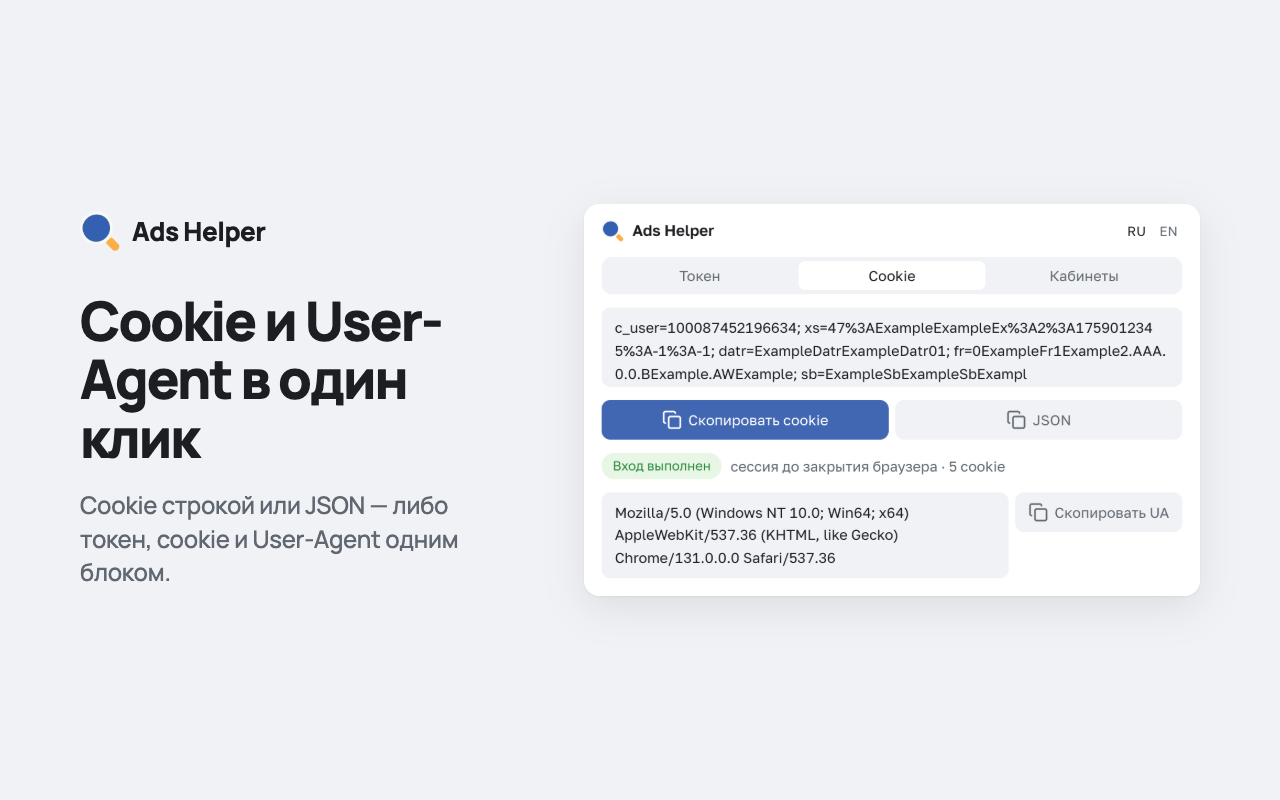
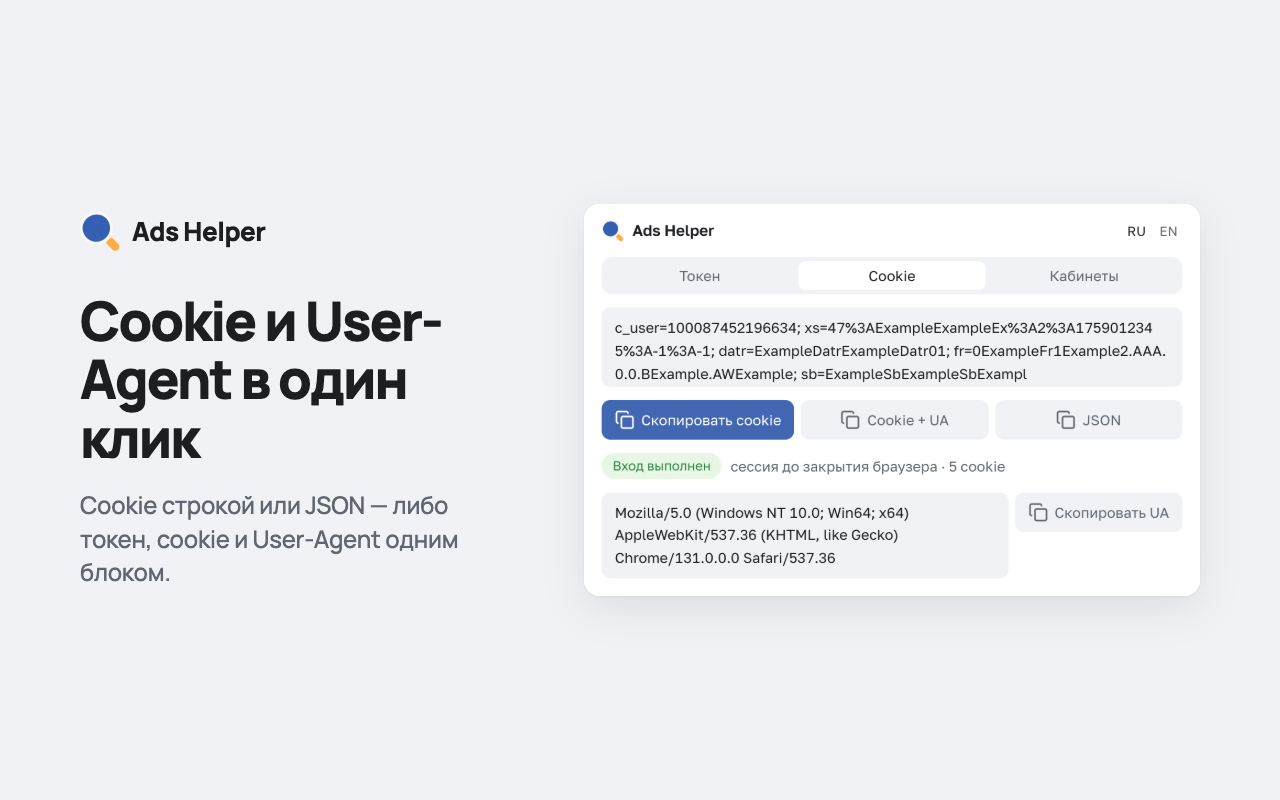
2.4.0: profile + BMs in "Token + cookies + UA", "Cookies + UA" button
- "Token + cookies + UA" ends with "Profile: <name> (<id>)" and "BM: <name> (<id>), …" in English, from the same /me read as the owner check (businesses edge; without business_management: once more with id,name, "BM: not available")
- Cookies tab: "Cookies + UA" copies the cookie string, blank line, User-Agent (no Graph request)
- Docs: README, store listing, privacy policy, token type order

Changed region(s): [[0.4688, 0.5, 0.75, 0.5625], [0.7812, 0.5, 0.875, 0.5312]]

diff --git a/fb-helper/js/popup.js b/fb-helper/js/popup.js
@@ -9,7 +9,7 @@
 // localStorage holds the last tab and the spend period. Cookies and the User-Agent are read live, never stored.
 
 import { t, tn, has, locale, getLang, setLang, loadLang, applyStatic } from "./i18n.js";
-import { isSessionError, sessionLabel, verNum, latestVersion, AD_PROBLEMS, adRank, reviewLines, ownerVerdict, isUserAgent, lifetimeSpend, spendFloor, insightRow } from "./pure.js";
+import { isSessionError, sessionLabel, verNum, latestVersion, AD_PROBLEMS, adRank, reviewLines, ownerVerdict, profileBlock, isUserAgent, lifetimeSpend, spendFloor, insightRow } from "./pure.js";
 
 const $ = (sel) => document.querySelector(sel);
 const $$ = (sel) => [...document.querySelectorAll(sel)];
@@ -595,7 +595,7 @@ const cookieMap = () => Object.fromEntries(state.cookies.map((c) => [c.name, c])
 const hasSession = () => { const m = cookieMap(); return !!(m.c_user && m.xs); };
 function renderCookies() {
   const byName = cookieMap();
-  for (const id of ["#copyCookies", "#copyCookieJson"]) $(id).disabled = !state.cookies.length;
+  for (const id of ["#copyCookies", "#copyCookiesUa", "#copyCookieJson"]) if (!$(id).hasAttribute("aria-busy")) $(id).disabled = !state.cookies.length;
   // The whole cookie string, one colour like the token, in a short scrollable box;
   // the status line under it says whether the profile is logged in and how many cookies go out.
   const n = state.cookies.length;
@@ -653,22 +653,46 @@ async function copyUa() {
   if (!ua) return toast(state.uaHint || t("grab.noAccess"), true);
   copy(ua, t("ua.copied"));
 }
+// Cookie string, blank line, User-Agent: both read live (the UA from the FB tab, alongside the cookies). No Graph request.
+async function copyCookiesUa() {
+  const btn = $("#copyCookiesUa");
+  if (btn.disabled) return;
+  btn.disabled = true; btn.setAttribute("aria-busy", "true");
+  try {
+    const [ua] = await Promise.all([readUa().catch(() => null), readCookies()]);
+    if (!hasSession()) return toast(t("ck.noSession"), true);
+    if (!ua) return toast(state.uaHint || t("grab.noAccess"), true);
+    copy(`${cookieHeader()}\n\n${ua}`, t("ckUa.copied"));
+  } finally { btn.disabled = !state.cookies.length; btn.removeAttribute("aria-busy"); }
+}
 // ---------- token + cookies + UA block ----------
 // Whose token is it — the logged-in user's (c_user)? One /me read, remembered per token + login.
 // An open FB tab can keep a token from before the profile switched accounts; exporting it next to the new
 // cookies would hand out a pair that never worked. Throws Stale / a dead-session error; any other failure
 // (network, API pause) is "unknown" and does not block the export.
+// The same read brings the profile name and its BMs for the block's last paragraph. A token without
+// business_management (Events / Commerce Manager) is refused the BMs: then once more with id,name only.
+const PERMISSION_CODES = (c) => c === 10 || c === 100 || (c >= 200 && c <= 299);
 async function ownerCheck(token) {
   const user = cookieMap().c_user?.value || null;
   if (state.checked?.token === token && state.checked.user === user) return state.checked;
-  let meId = null, verdict = "unknown";
+  let meId = null, name = null, businesses = null, more = false, verdict = "unknown";
   try {
-    meId = (await graph("me", { fields: "id" })).id;
+    let me, withBm = true;
+    try { me = await graph("me", { fields: "id,name,businesses.limit(100){id,name}" }); }
+    catch (e) {
+      if (!PERMISSION_CODES(e.code)) throw e;
+      withBm = false;
+      me = await graph("me", { fields: "id,name" });
+    }
+    meId = me.id; name = me.name || null;
+    // Graph leaves out an empty edge entirely: no "businesses" key on a read that asked for it = no BMs.
+    if (withBm) { businesses = Array.isArray(me.businesses?.data) ? me.businesses.data : []; more = !!me.businesses?.paging?.next; }
     verdict = ownerVerdict(!!TOKEN_KIND[token.slice(0, 4)], meId, user);
   } catch (e) {
     if (e instanceof Stale || e.session) throw e;
   }
-  const res = { token, user, verdict, meId };
+  const res = { token, user, verdict, meId, name, businesses, more };
   // Kept in storage.session, so reopening the popup doesn't cost another /me before the next export.
   if (verdict !== "unknown") { state.checked = res; saveSession({ checked: res }); }
   return res;
@@ -701,8 +725,10 @@ async function copyEnvNow() {
   catch (e) { if (!(e instanceof Stale)) toast(e.message, true); return; }
   if (gen !== state.gen || state.token !== token) return;
   if (own.verdict === "mismatch") return toast(t("env.mismatch", { a: own.meId, b: own.user }), true);
-  // token, blank line, cookie header, blank line, User-Agent — nothing else
-  copy(`${token}\n\n${cookies}\n\n${ua}`, own.verdict === "ok" ? t("env.copied") : t("env.unverified"));
+  // token, blank line, cookie header, blank line, User-Agent, then (when /me answered) profile + BMs in English.
+  // The id is printed only when it is the logged-in user's: a custom app's /me id is app-scoped.
+  const info = own.meId ? `\n\n${profileBlock({ name: own.name, id: own.verdict === "ok" ? own.meId : null, businesses: own.businesses, more: own.more })}` : "";
+  copy(`${token}\n\n${cookies}\n\n${ua}${info}`, own.verdict === "ok" ? t("env.copied") : t("env.unverified"));
 }
 
 // ---------- accounts ----------
@@ -1237,6 +1263,7 @@ document.addEventListener("DOMContentLoaded", async () => {
   $("#copyCookies").addEventListener("click", () => copyCookies(false));
   $("#copyCookieJson").addEventListener("click", () => copyCookies(true));
   $("#copyUa").addEventListener("click", copyUa);
+  $("#copyCookiesUa").addEventListener("click", copyCookiesUa);
   $("#loadAccounts").addEventListener("click", () => fetchAccounts());
   $("#copyLiveIds").addEventListener("click", copyLiveIds);
   $("#accountFilter").addEventListener("input", (e) => { state.filter = e.target.value; renderAccounts(); });

diff --git a/fb-helper/js/i18n.js b/fb-helper/js/i18n.js
@@ -21,6 +21,7 @@ const D = {
     "guide.EAAI": "— настройка автоправил.",
     "copyCookies": "Скопировать cookie", "copyCookies.title": "Строка cookie: c_user=…; xs=…; …",
     "copyJson.title": "Те же cookie с атрибутами (domain, path, срок) — для импорта в антидетект",
+    "ckUa": "Cookie + UA", "ckUa.title": "Строка cookie, пустая строка, User-Agent этого профиля", "ckUa.copied": "Cookie + UA скопированы",
     "ua.copy": "Скопировать UA", "ua.title": "User-Agent этого профиля, как его видит страница Facebook", "ua.copied": "User-Agent скопирован",
     "search": "Поиск", "search.aria": "Поиск кабинетов",
     "liveIds": "ID активных", "liveIds.title": "ID активных кабинетов списком, по одному в строке",
@@ -116,6 +117,7 @@ const D = {
     "guide.EAAI": "— automated rules.",
     "copyCookies": "Copy cookies", "copyCookies.title": "Cookie string: c_user=…; xs=…; …",
     "copyJson.title": "Same cookies with attributes (domain, path, expiry) — for import into an antidetect browser",
+    "ckUa": "Cookies + UA", "ckUa.title": "Cookie string, blank line, this profile's User-Agent", "ckUa.copied": "Cookies + UA copied",
     "ua.copy": "Copy UA", "ua.title": "This profile's User-Agent, as the Facebook page sees it", "ua.copied": "User-Agent copied",
     "search": "Search", "search.aria": "Search ad accounts",
     "liveIds": "Active IDs", "liveIds.title": "IDs of active ad accounts, one per line",

diff --git a/fb-helper/js/pure.js b/fb-helper/js/pure.js
@@ -86,6 +86,19 @@ export function ownerVerdict(firstParty, meId, cookieUser) {
   return firstParty ? "mismatch" : "unknown";
 }
 
+// The last paragraph of the token + cookies + UA block, always in English: whose profile, which BMs.
+// id: the profile id, only when it is the real one (owner verified); a custom app's /me id is app-scoped.
+// businesses: [{ id, name }], or null when the token could not read them; more: Graph has a next page.
+// Names come from Graph and can hold anything: control characters (a newline would forge a paragraph) become spaces.
+export function profileBlock({ name, id, businesses, more = false }) {
+  const clean = (s) => String(s ?? "").replace(/[\x00-\x1f\x7f]+/g, " ").trim();
+  const who = clean(name);
+  const profile = who && id ? `${who} (${id})` : who || clean(id) || "unknown";
+  const list = Array.isArray(businesses) ? businesses.filter((b) => b?.id).map((b) => `${clean(b.name) || "no name"} (${clean(b.id)})`) : null;
+  const bm = !list ? "not available" : !list.length ? "none" : list.join(", ") + (more ? ", …" : "");
+  return `Profile: ${profile}\nBM: ${bm}`;
+}
+
 // A User-Agent as read from the page. The page's JS can return anything, so only a printable-ASCII string of a sane
 // length passes: no control characters (a newline would forge extra paragraphs in the copied block), no markup-length blobs.
 export const isUserAgent = (s) => typeof s === "string" && /^[\x20-\x7e]{8,512}$/.test(s);

diff --git a/fb-helper/popup.html b/fb-helper/popup.html
@@ -56,8 +56,9 @@
     <section id="tab-cookies" class="panel" role="tabpanel" aria-labelledby="tabbtn-cookies">
       <div class="card">
         <div class="field data" id="cookieBox">—</div>
-        <div class="split">
+        <div class="split three">
           <button id="copyCookies" class="btn primary" title="Cookie string: c_user=…; xs=…; …" data-i18n-title="copyCookies.title"><i class="i i-copy"></i><span data-i18n="copyCookies">Copy cookies</span></button>
+          <button id="copyCookiesUa" class="btn" title="Cookie string, blank line, this profile's User-Agent" data-i18n-title="ckUa.title"><i class="i i-copy"></i><span data-i18n="ckUa">Cookies + UA</span></button>
           <button id="copyCookieJson" class="btn" title="Same cookies with attributes (domain, path, expiry) — for import into an antidetect browser" data-i18n-title="copyJson.title"><i class="i i-copy"></i>JSON</button>
         </div>
         <div id="cookieStatus" class="source"></div>

diff --git a/fb-helper/css/popup.css b/fb-helper/css/popup.css
@@ -188,6 +188,7 @@ main { padding-bottom: 0; }
    same distance from the left and right edges. */
 .split { display: grid; grid-template-columns: 1fr 1fr; gap: var(--spacing-1-5); min-width: 0; }
 .split .btn { justify-content: center; }
+.split.three { grid-template-columns: 1fr 1fr 1fr; }
 /* Token field + "Check" + refresh on top; the copy buttons under them span all three columns. */
 .token-grid {
   display: grid; grid-template-columns: minmax(0, 1fr) auto auto; align-items: center;
@@ -389,6 +390,7 @@ main { padding-bottom: 0; }
   .total { grid-template-columns: minmax(0, 1fr); }
   .total-meta { text-align: left; white-space: normal; }
   .token-grid > .split { grid-template-columns: minmax(0, 1fr); }   /* "Token + cookies + UA" doesn't fit half the width */
+  .split.three { grid-template-columns: minmax(0, 1fr); }
   .ua-row { grid-template-columns: minmax(0, 1fr); }
   .ua-row .btn { justify-content: center; }
 }

diff --git a/chrome-web-store/art/cover-1280x800.html b/chrome-web-store/art/cover-1280x800.html
@@ -19,7 +19,7 @@
   .card img { display: block; width: 100%; }
 </style>
 <div class="head">
-  <h1><img src="../icons/logo.webp" alt="">Ads Helper <span class="v">2.3.1</span></h1>
+  <h1><img src="../icons/logo.webp" alt="">Ads Helper <span class="v">2.4.0</span></h1>
   <h2>Chrome extension</h2>
 </div>
 <div class="row">

diff --git a/chrome-web-store/art/cover.html b/chrome-web-store/art/cover.html
@@ -19,7 +19,7 @@
   .card img { display: block; width: 100%; }
 </style>
 <div class="head">
-  <h1><img src="../icons/logo.webp" alt="">Ads Helper <span class="v">2.3.1</span></h1>
+  <h1><img src="../icons/logo.webp" alt="">Ads Helper <span class="v">2.4.0</span></h1>
   <h2>Chrome extension</h2>
 </div>
 <div class="row">

diff --git a/chrome-web-store/art/social.html b/chrome-web-store/art/social.html
@@ -19,7 +19,7 @@
   .card img { display: block; width: 100%; }
 </style>
 <div class="head">
-  <h1><img src="../icons/logo.webp" alt="">Ads Helper <span class="v">2.3.1</span></h1>
+  <h1><img src="../icons/logo.webp" alt="">Ads Helper <span class="v">2.4.0</span></h1>
   <h2>Chrome extension</h2>
 </div>
 <div class="row">

diff --git a/PRIVACY_POLICY.md b/PRIVACY_POLICY.md
@@ -12,8 +12,8 @@ Ads Helper is a Chrome extension that shows, for the Facebook profile you are lo
 |---|---|---|
 | Facebook access token | Read from the Facebook tab you have open (the page's own script variables and HTML) | Shown in the popup; kept in `chrome.storage.session`; sent to `graph.facebook.com` as an `Authorization` header to read your ad accounts; copied to the clipboard only when you press a copy button |
 | Facebook session cookies | `chrome.cookies` for `facebook.com` | Shown in the popup; copied to the clipboard (as a header string or JSON) only when you press a copy button. The `c_user` cookie is also read to notice that you switched Facebook accounts, so cached data of the previous account is dropped |
-| Browser User-Agent | `navigator.userAgent` as reported by your open Facebook tab (the value Facebook's page itself sees) | Shown in the popup; copied to the clipboard (alone, or with the token and cookies) only when you press a copy button. Never stored, never sent anywhere |
-| Profile, app and permission data | `graph.facebook.com` (`me`, `app`, `me/permissions`) | Shown in the popup when you press **Check** or copy **Token + cookies + UA** (one `me` read confirms the token belongs to the logged-in user) |
+| Browser User-Agent | `navigator.userAgent` as reported by your open Facebook tab (the value Facebook's page itself sees) | Shown in the popup; copied to the clipboard (alone, with the cookies, or with the token and cookies) only when you press a copy button. Never stored, never sent anywhere |
+| Profile, app and permission data; the profile's Business Manager names and IDs | `graph.facebook.com` (`me`, `me` with its `businesses`, `app`, `me/permissions`) | Shown in the popup when you press **Check**. **Token + cookies + UA** makes one `me` read that confirms the token belongs to the logged-in user and adds the profile name and its Business Managers to the copied block; that answer is kept in `chrome.storage.session` until the browser closes |
 | Ad account data: names, IDs, status, disable reason, spend, clicks, limits, payment-method label, pixels, business owner, ads with their review status, and each ad's spend, impressions and clicks | `graph.facebook.com` (`me/adaccounts`, `act_<id>/ads`) | Shown in the popup; cached in `chrome.storage.session` |
 | Settings: interface language, newer Graph API version learned from Meta, last open tab and spend period | Your choices / Meta's API responses | `chrome.storage.local` (language, API version) and the popup's `localStorage` (tab, period) |
 
@@ -73,7 +73,7 @@ Changes to this policy are published in this file with a new date. The source co
 
 Ads Helper показывает для профиля Facebook, в который вы вошли в своём браузере, токен доступа, cookie сессии, User-Agent браузера и статус и расход рекламных кабинетов. Всё происходит в вашем браузере. У разработчика нет сервера, и он не получает никаких данных.
 
-- **Что обрабатывается:** токен (читается из открытой вкладки Facebook), cookie facebook.com, User-Agent браузера (как его видит открытая вкладка Facebook; нигде не хранится и никуда не отправляется), данные профиля, приложения и прав токена (`me`, `app`, `me/permissions`), данные кабинетов и объявлений, включая расход, показы и клики по каждому объявлению (`me/adaccounts`, `act_<id>/ads`), язык интерфейса, версия Graph API, последняя открытая вкладка и период.
+- **Что обрабатывается:** токен (читается из открытой вкладки Facebook), cookie facebook.com, User-Agent браузера (как его видит открытая вкладка Facebook; нигде не хранится и никуда не отправляется), данные профиля, приложения и прав токена, названия и ID Business Manager'ов профиля (`me`, `app`, `me/permissions`), данные кабинетов и объявлений, включая расход, показы и клики по каждому объявлению (`me/adaccounts`, `act_<id>/ads`), язык интерфейса, версия Graph API, последняя открытая вкладка и период.
 - **Куда уходит:** только запросы `GET` из вашего браузера на `graph.facebook.com`, только на чтение. Токен уходит туда в заголовке `Authorization`; браузер, как и на facebook.com, прикладывает ваши cookie Facebook. Запросы идут по кнопке, при первом открытии вкладки «Кабинеты» без загруженных данных или после перезагрузки страницы Facebook. Повторное открытие окна и переключение вкладок ничего не отправляют. Частота ограничена самим расширением.
 - **В буфер обмена** токен, cookie и User-Agent попадают только когда вы сами нажали кнопку копирования.
 - **Хранение:** токен и кэш кабинетов — `chrome.storage.session` (в памяти, стираются при закрытии браузера, перезагрузке или обновлении расширения); язык и версия API — `chrome.storage.local`; последняя вкладка и период — `localStorage` окна. Cookie и User-Agent читаются каждый раз заново и не хранятся. Удаление расширения стирает всё. Кэш кабинетов сбрасывается и при входе в другой аккаунт Facebook.

diff --git a/README.md b/README.md
@@ -1,4 +1,4 @@
-# FB Helper 2.3.1
+# FB Helper 2.4.0
 
 [![CI](https://github.com/slilbudget/fb-helper/actions/workflows/ci.yml/badge.svg)](https://github.com/slilbudget/fb-helper/actions/workflows/ci.yml) [![Release](https://img.shields.io/github/v/release/slilbudget/fb-helper)](https://github.com/slilbudget/fb-helper/releases/latest) [![License: MIT](https://img.shields.io/github/license/slilbudget/fb-helper)](LICENSE)
 
@@ -8,7 +8,7 @@ Chrome extension (MV3): Facebook access token, session cookies and ad account st
 
 ## Install
 
-1. Download `fb-helper-2.3.1.zip` from [Releases](https://github.com/slilbudget/fb-helper/releases/latest) and unpack (or `git clone` and use the `fb-helper/` folder)
+1. Download `fb-helper-2.4.0.zip` from [Releases](https://github.com/slilbudget/fb-helper/releases/latest) and unpack (or `git clone` and use the `fb-helper/` folder)
 2. `chrome://extensions` → enable **Developer mode**
 3. **Load unpacked** → pick the unpacked folder (from a clone: `fb-helper/`; keep the folder after installing)
 
@@ -17,8 +17,8 @@ Chrome 121+. A Facebook tab must be open in the same profile; the ads token (EAA
 ## Features
 
 - **Language** — English and Russian, `RU · EN` toggle in the header. The first run follows the browser's UI language; after that the choice is yours, stored in `chrome.storage.local`, and survives a browser restart. English account statuses and disable reasons use the Marketing API names (`Unsettled`, `Ads integrity policy`, …), the same as Ads Manager.
-- **Token** — reads the token from the open FB tab and shows its type: EAAB (Ads Manager), EAAI (Automated Rules), EAAG (Business Manager), EAAH (Commerce Manager), EAAd (Events Manager). Each type links to the page where that token lives. **Check** shows the profile, the app and the permissions behind the token. The refresh button next to the field re-reads the token from the FB tab (and lets you retry a token that was reported dead).
-- **Cookies** — as a header string or as JSON with attributes for importing into a browser profile; **Token + cookies + UA** (Token tab) copies the three in one block — token, blank line, cookie string, blank line, User-Agent — after one `/me` read confirms the token belongs to the logged-in user (`c_user`). A token from another account is not copied, and neither is a block without a readable User-Agent. The Cookies tab also shows the profile's **User-Agent** with its own copy button. It is read from the open Facebook tab, so it is the one the page sees (an antidetect profile's spoofed value, not the popup's own).
+- **Token** — reads the token from the open FB tab and shows its type: EAAB (Ads Manager), EAAG (Business Manager), EAAd (Events Manager), EAAH (Commerce Manager), EAAI (Automated Rules). Each type links to the page where that token lives. **Check** shows the profile, the app and the permissions behind the token. The refresh button next to the field re-reads the token from the FB tab (and lets you retry a token that was reported dead).
+- **Cookies** — as a header string or as JSON with attributes for importing into a browser profile; **Token + cookies + UA** (Token tab) copies them in one block — token, blank line, cookie string, blank line, User-Agent, blank line, then `Profile: <name> (<id>)` and `BM: <name> (<id>), …` in English — after one `/me` read confirms the token belongs to the logged-in user (`c_user`) and brings the profile name and its Business Managers (`BM: not available` for tokens without `business_management`, e.g. EAAd / EAAH). A token from another account is not copied, and neither is a block without a readable User-Agent. The Cookies tab also has **Cookies + UA** (cookie string, blank line, User-Agent; no Graph request) and shows the profile's **User-Agent** with its own copy button. It is read from the open Facebook tab, so it is the one the page sees (an antidetect profile's spoofed value, not the popup's own).
 - **Ad accounts** — status, disable reason, spend per period (today / yesterday / 7 / 30 days / all time — the larger of Meta's own total, which lags behind, and the last 30 days + today), clicks and CPC, daily limit, billing threshold, payment method, pixels, business owner; ads with statuses, rejection reasons (every reason with the placement it applies to; disapproved ads first) and, for the selected period, each ad's spend, impressions, clicks and CPC (a second read after the list; switching the period sends nothing; "All time" is Meta's `maximum`, at most 37 months). The refresh button at the top of the tab re-reads the account list only; each account's ads have their own refresh icon in the ads card (so the ads cost nothing unless you ask). The loaded list and ads are kept until the browser closes and survive FB tab or token changes; logging in as another FB user drops them.
 
 ## Safety and limits
@@ -39,7 +39,7 @@ Chrome 121+. A Facebook tab must be open in the same profile; the ads token (EAA
 ## Build the archive
 
 ```
-(cd fb-helper && zip -qrD ../fb-helper-2.3.1.zip . -x '*.DS_Store') && zip -qj fb-helper-2.3.1.zip LICENSE
+(cd fb-helper && zip -qrD ../fb-helper-2.4.0.zip . -x '*.DS_Store') && zip -qj fb-helper-2.4.0.zip LICENSE
 ```
 
 The Chrome Web Store package (`chrome-web-store/release/ads-helper-<version>.zip`) comes from `chrome-web-store/build.sh`.

diff --git a/chrome-web-store/RELEASE_CHECKLIST.md b/chrome-web-store/RELEASE_CHECKLIST.md
@@ -3,11 +3,11 @@
 The repo and GitHub stay **FB Helper** (`fb-helper/`). Only the store build is **Ads Helper** with the neutral logo (`chrome-web-store/icons/logo-source.png`, `chrome-web-store/icons/`).
 
 ## 1. Build
-- [ ] `chrome-web-store/build.sh` → `chrome-web-store/release/unpacked/` (exact ZIP contents) and `chrome-web-store/release/ads-helper-2.3.1.zip`
+- [ ] `chrome-web-store/build.sh` → `chrome-web-store/release/unpacked/` (exact ZIP contents) and `chrome-web-store/release/ads-helper-2.4.0.zip`
 - [ ] `node --test test/*.test.mjs` passes
 - [ ] `EXT_DIR=chrome-web-store/release/unpacked node test/e2e.mjs` passes (runs the store build, not the repo)
-- [ ] `manifest.json` is at the ZIP root (`unzip -l chrome-web-store/release/ads-helper-2.3.1.zip | grep -x '.*manifest.json'`), no comments in it
-- [ ] Version is higher than any previously uploaded version (2.1.0 and 2.2.0 are already in the store; every upload needs a bump — this one is 2.3.1)
+- [ ] `manifest.json` is at the ZIP root (`unzip -l chrome-web-store/release/ads-helper-2.4.0.zip | grep -x '.*manifest.json'`), no comments in it
+- [ ] Version is higher than any previously uploaded version (2.1.0 and 2.2.0 are already in the store; every upload needs a bump — this one is 2.4.0)
 - [ ] No `FB Helper`, no Facebook "f" logo in the package (the build script fails if the old name is left; icons come from `chrome-web-store/icons/`)
 
 ## 2. Manual test of the unpacked store build
@@ -36,7 +36,7 @@ The repo and GitHub stay **FB Helper** (`fb-helper/`). Only the store build is *
 - [ ] Trader / non-trader status declared honestly (Dashboard → Account)
 
 ## 5. Dashboard (copy from `STORE_LISTING.md`)
-- [ ] Package: upload `chrome-web-store/release/ads-helper-2.3.1.zip`
+- [ ] Package: upload `chrome-web-store/release/ads-helper-2.4.0.zip`
 - [ ] Store listing: description, category, language, store icon `chrome-web-store/icons/icon_128.png`, screenshots, small promo tile
 - [ ] Privacy: single purpose, justification for `cookies`, `storage`, `scripting`, host permission, remote code = **No**, data usage boxes (Authentication information, PII, Financial and payment information), three certifications, privacy policy URL
 - [ ] Distribution: visibility and regions
@@ -54,7 +54,7 @@ The repo and GitHub stay **FB Helper** (`fb-helper/`). Only the store build is *
 |---|---|---|---|
 | Store icon | 128×128 PNG | yes | **Done:** `chrome-web-store/icons/icon_128.png` — 96×96 artwork inside 16 px transparent padding per side |
 | Extension icons in the package | 16, 32, 48, 128 PNG | yes | **Done** (built into the ZIP from `chrome-web-store/icons/`) |
-| Screenshots | 1280×800, JPEG or 24-bit PNG without alpha (as the Dashboard form states), 1 to 5 | at least 1 | **Done (2.3.1 UI):** English listing `chrome-web-store/art/out/screenshots/en/01-accounts … 04-cookies.png`, Russian listing `…/screenshots/ru/…`, plus the overview `chrome-web-store/art/out/store-screenshot-1280x800.png` as an optional 5th (`cover.png` is 2100×1182 and is rejected by the form) |
+| Screenshots | 1280×800, JPEG or 24-bit PNG without alpha (as the Dashboard form states), 1 to 5 | at least 1 | **Done (2.4.0 UI):** English listing `chrome-web-store/art/out/screenshots/en/01-accounts … 04-cookies.png`, Russian listing `…/screenshots/ru/…`, plus the overview `chrome-web-store/art/out/store-screenshot-1280x800.png` as an optional 5th (`cover.png` is 2100×1182 and is rejected by the form) |
 | Small promo tile | 440×280, JPEG or 24-bit PNG without alpha | yes | **Done:** `chrome-web-store/art/out/promo-tile-440x280.png` |
 | Marquee promo tile | 1400×560 | optional | Not made; needed only to be featured |
 | Global promo video | YouTube URL | optional in the Dashboard form | Skip |
